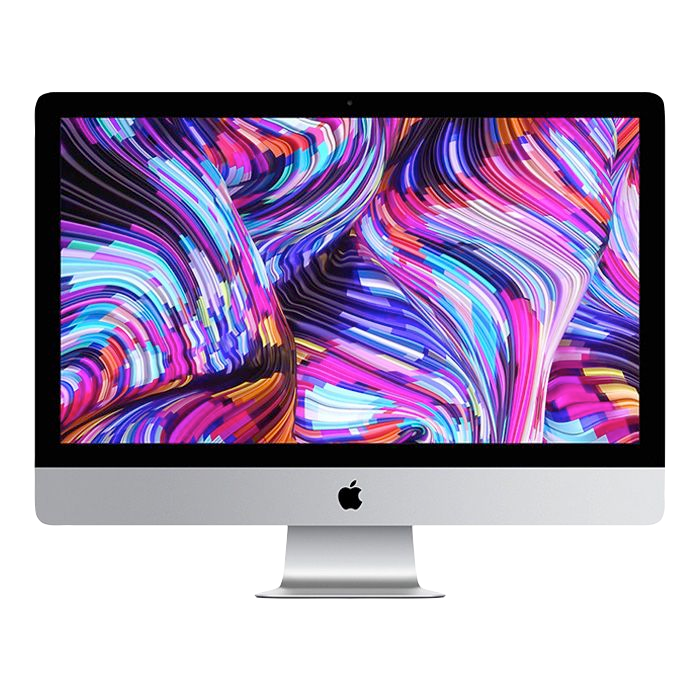
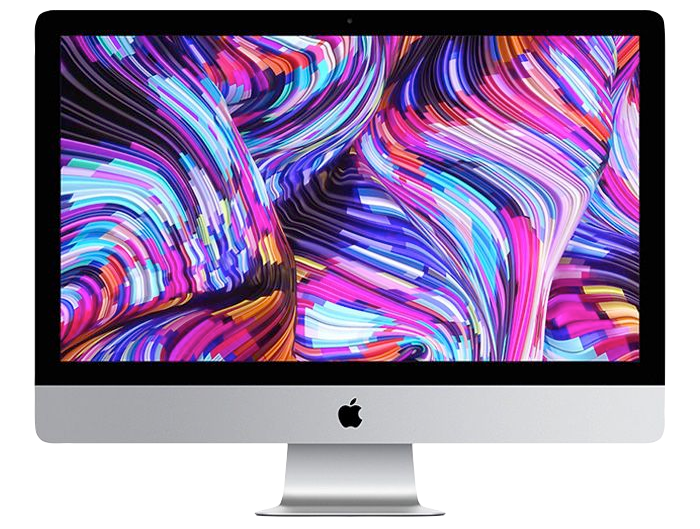
commit on 'master'

diff --git a/index.html b/index.html
@@ -154,7 +154,7 @@
                <div class="col-md-4">
                   <div class="best_box">
                      <h4>LED TV</h4>
-                     <figure><img src="images/imac.jpg" alt="#"/></figure>
+                     <figure><img src="images/imac2hd.png" alt="#"/></figure>
                      <p>Lorem ipsum dolor sit amet, consectetur adipiscing elit, sed do eiusmod t dolor in reprehenderit in voluptate velit</p>
                   </div>
                </div>
@@ -348,11 +348,11 @@
                   <div class="col-md-6">
                      <div class="cont_call">
                         <h3> <strong class="multi">Office</strong><br>
-                           Titik Nol 0km Daerah Istimewa Yogyakarta
+                           Jl. Lembarawa, Sawah, Krasak, Kec. Brebes, Kabupaten Brebes, Jawa Tengah 52219
                         </h3>
                         <h3> <strong class="multi">Contact Us</strong><br>
-                            08080818838291
-                         </h3>
+                           0823-2288-1233
+                        </h3>
                      </div>
                   </div>
                </div>

diff --git a/produkDetail.html b/produkDetail.html
@@ -136,10 +136,10 @@
                   <div class="col-md-6">
                      <div class="cont_call">
                         <h6> <strong class="multi">Our Office</strong><br>
-                           Titik Nol 0 km Daerah Istimewa Yogyakarta
+                           Jl. Lembarawa, Sawah, Krasak, Kec. Brebes, Kabupaten Brebes, Jawa Tengah 52219
                         </h6>
                         <h5> <strong class="multi">Contact Us</strong><br>
-                            08080818838291
+                           0823-2288-1233
                         </h5>
                      </div>
                   </div>

diff --git a/faq.html b/faq.html
@@ -163,10 +163,10 @@
                   <div class="col-md-6">
                      <div class="cont_call">
                         <h3> <strong class="multi">Office</strong><br>
-                           Titik Nol 0km Daerah Istimewa Yogyakarta
+                           Jl. Lembarawa, Sawah, Krasak, Kec. Brebes, Kabupaten Brebes, Jawa Tengah 52219
                         </h3>
                         <h3> <strong class="multi">Contact Us</strong><br>
-                            08080818838291
+                           0823-2288-1233
                          </h3>
                      </div>
                   </div>

diff --git a/produkPC.html b/produkPC.html
@@ -273,10 +273,10 @@
                   <div class="col-md-6">
                      <div class="cont_call">
                         <h3> <strong class="multi">Office</strong><br>
-                           Titik Nol 0km Daerah Istimewa Yogyakarta
+                           Jl. Lembarawa, Sawah, Krasak, Kec. Brebes, Kabupaten Brebes, Jawa Tengah 52219
                         </h3>
                         <h3> <strong class="multi">Contact Us</strong><br>
-                            08080818838291
+                           0823-2288-1233
                          </h3>
                      </div>
                   </div>

diff --git a/about.html b/about.html
@@ -225,10 +225,10 @@
                   <div class="col-md-6">
                      <div class="cont_call">
                         <h6> <strong class="multi">Office</strong><br>
-                           Titik Nol 0km Daerah Istimewa Yogyakarta
+                           Jl. Lembarawa, Sawah, Krasak, Kec. Brebes, Kabupaten Brebes, Jawa Tengah 52219
                         </h6>
                         <h6> <strong class="multi">Contact Us</strong><br>
-                            08080818838291
+                           0823-2288-1233
                         </h6>
                      </div>
                   </div>

diff --git a/css/stylePC.css b/css/stylePC.css
@@ -524,7 +524,38 @@ button {
 
 /** end best section **/
 
+/** WA Me **/
 
+.wame-box{
+     margin-left: 250mm;
+}
+
+.wame{
+     background-color: #97D8C4;
+     color: rgb(75, 75, 75);
+     font-family:'Baloo Chettan';
+     font-size: 15px;
+
+     position: fixed;
+     padding: 12px 36px;
+     margin-bottom: 17mm;
+     margin-right: 10mm;
+     border-radius: 30px 0px 0px 30px;
+     z-index: 1;
+     width: 100%;
+     bottom: 0;
+}
+
+.img-wame{
+     margin-right: 0px ;
+}
+
+.wame:hover{
+     background-color: #6B9AC4;
+     font-size: 20px;
+}
+
+/** end Wa Me **/
 
 /** footer **/
 
